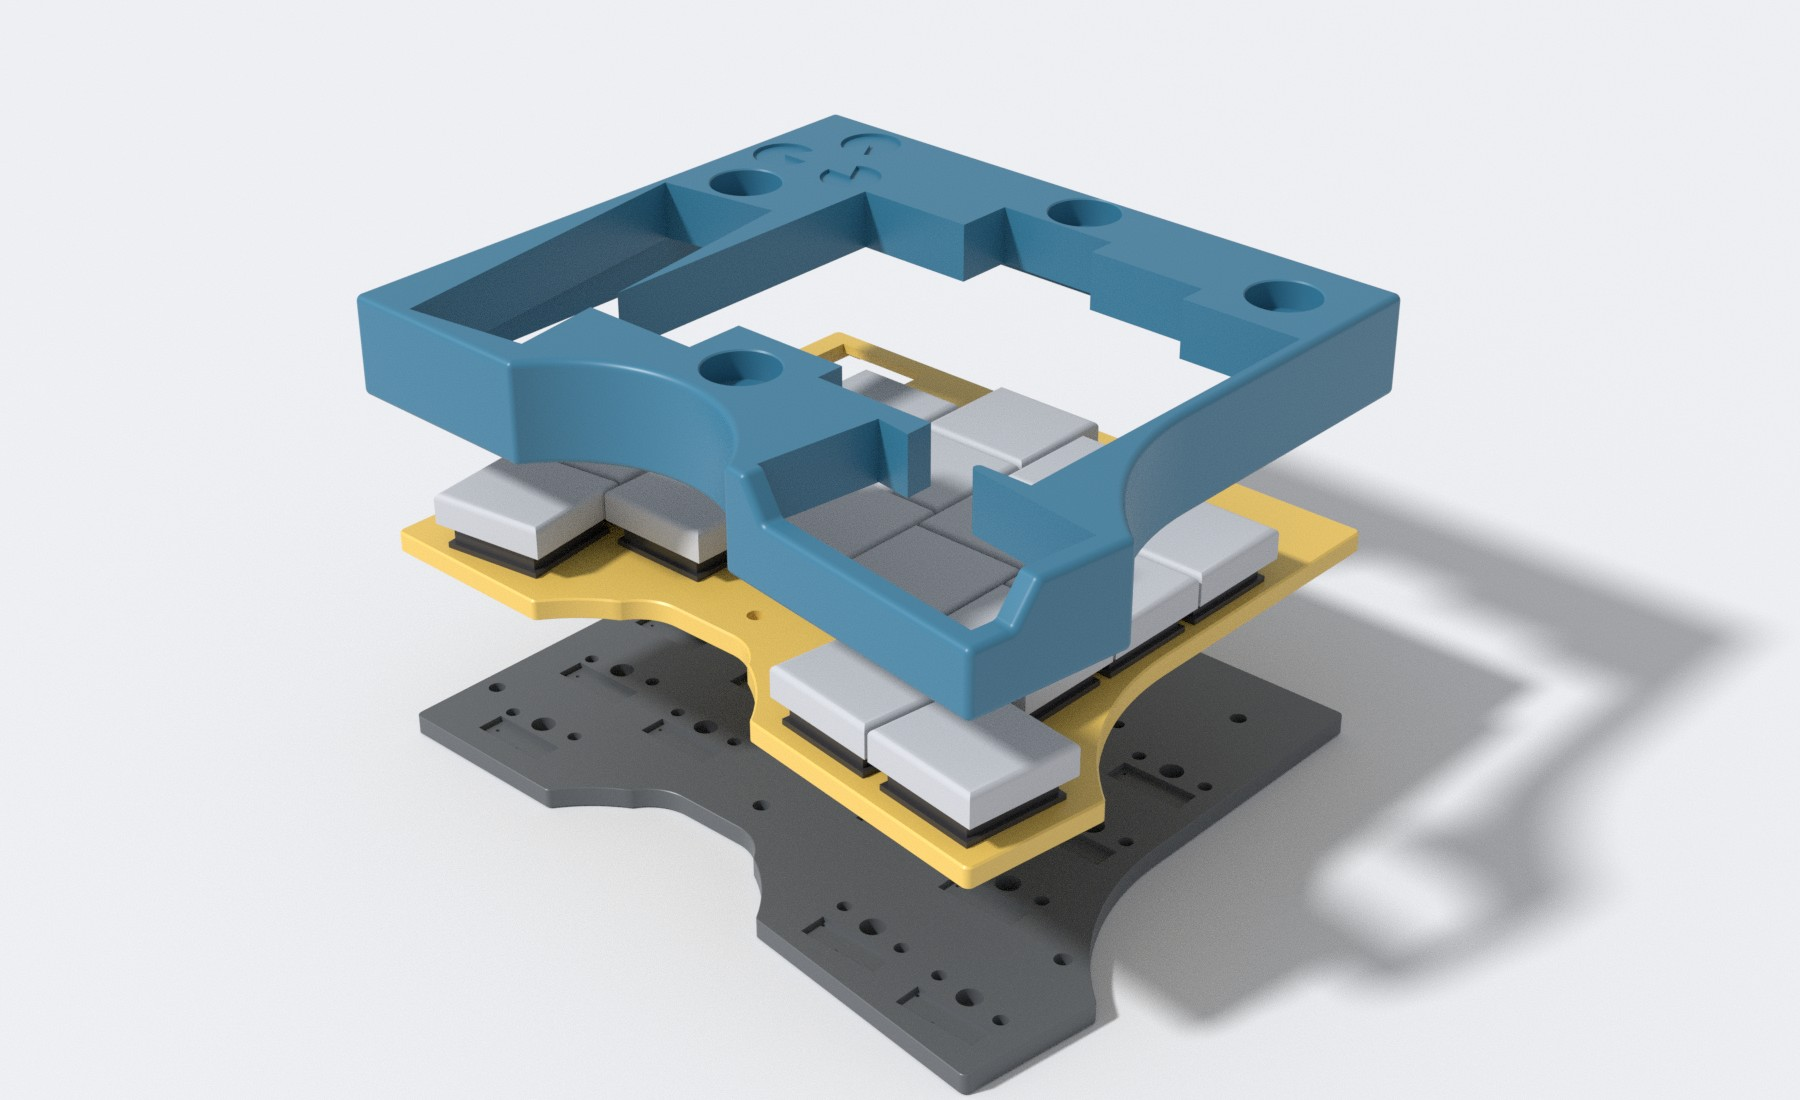
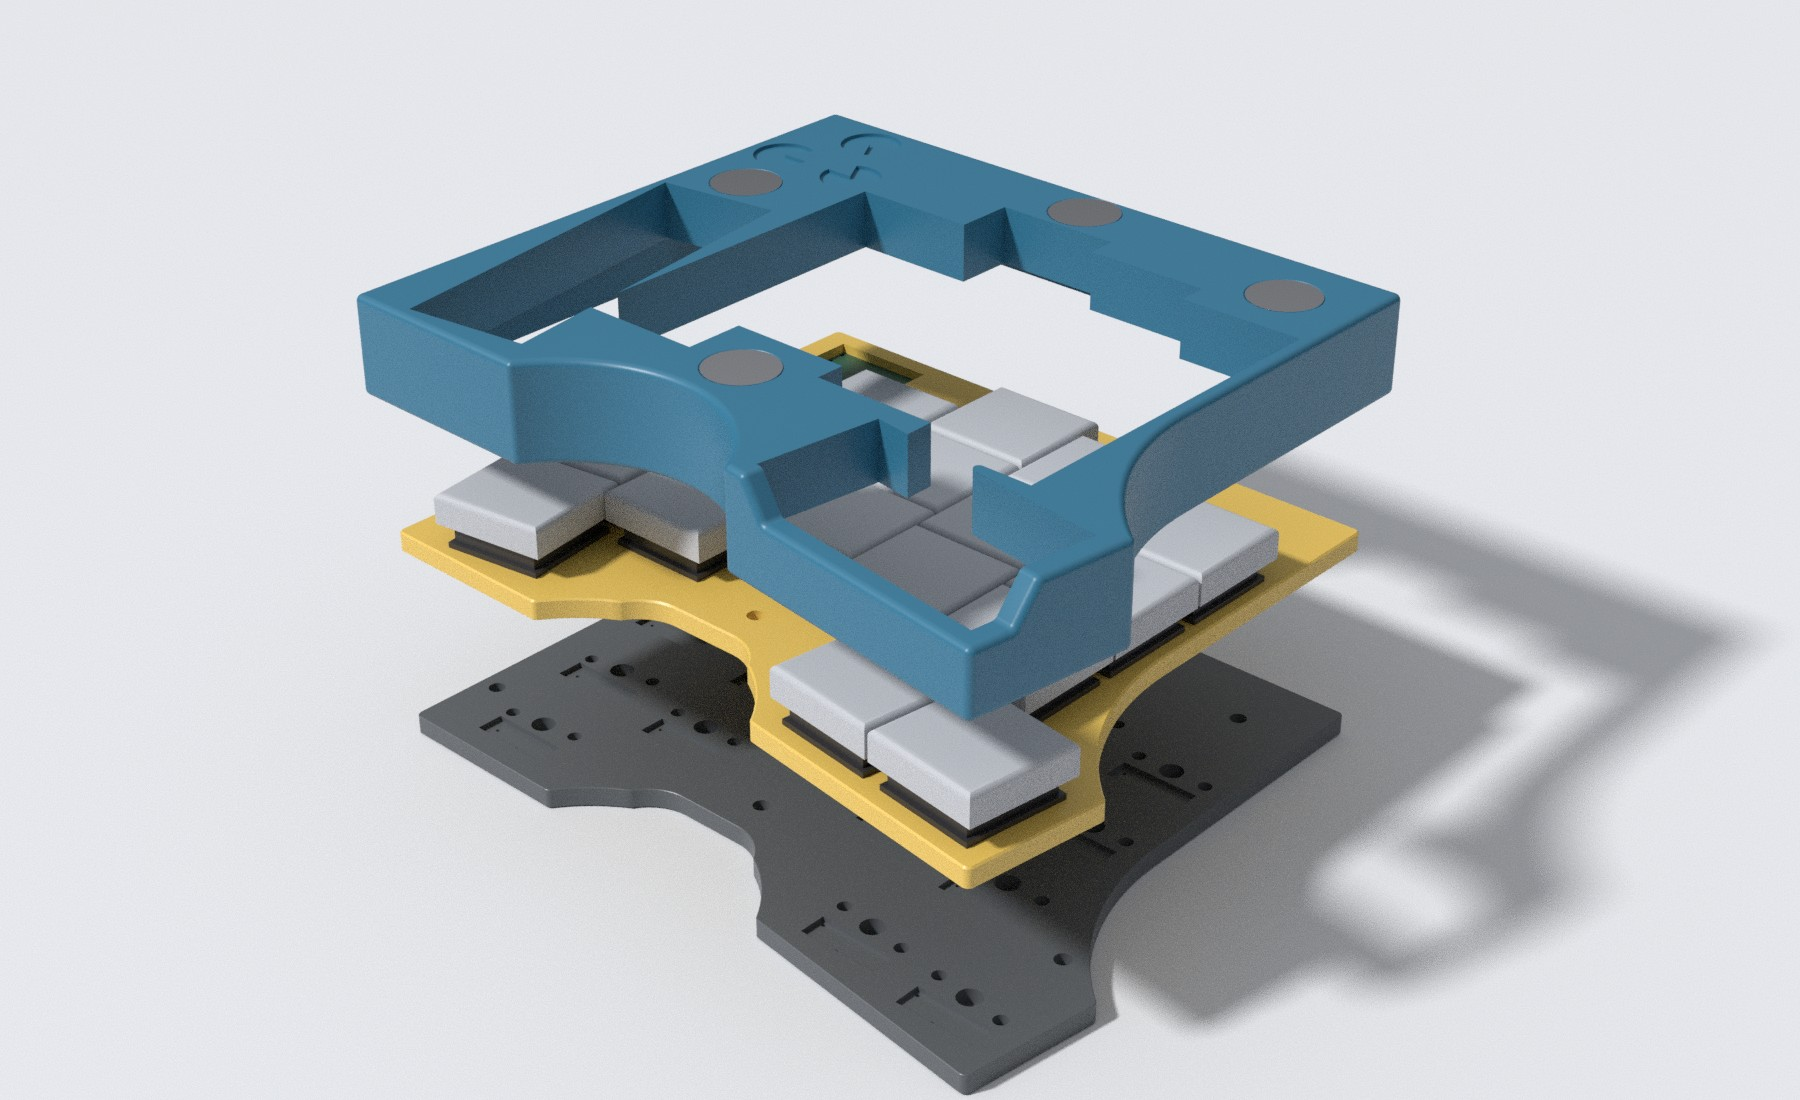
docs: show the XIAO, its silver USB connector and silver magnets in the renders
Xiao keeps its USB connector as a separate solid and WaveCase keeps the right
XIAO, so render.py can export the board, the connector and the stacked magnets.
The Blender script gets a metal material and a gradient environment for
reflections; the images are re-rendered.

diff --git a/render_blender.py b/render_blender.py
@@ -18,7 +18,11 @@ COLORS = {
     "bottom": (0.1, 0.11, 0.12, 1),
     "switches": (0.03, 0.03, 0.035, 1),
     "caps": (0.5, 0.51, 0.54, 1),
+    "xiao": (0.02, 0.1, 0.06, 1),
+    "usb": (0.85, 0.85, 0.88, 1),
+    "magnets": (0.85, 0.85, 0.88, 1),
 }
+METALS = ("usb", "magnets")
 SIZE = (1800, 1100)
 SAMPLES = 64
 
@@ -35,19 +39,42 @@ def reset_scene():
     scene.view_settings.view_transform = "Standard"
     world = bpy.data.worlds.new("world")
     world.use_nodes = True
-    background = world.node_tree.nodes["Background"]
-    background.inputs["Color"].default_value = (0.93, 0.94, 0.96, 1)
-    background.inputs["Strength"].default_value = 0.55
+    nodes, links = world.node_tree.nodes, world.node_tree.links
+    nodes.clear()
+    # camera rays see a plain backdrop, reflections see a gradient so metal does not look flat
+    plain = nodes.new("ShaderNodeBackground")
+    plain.inputs["Color"].default_value = (0.93, 0.94, 0.96, 1)
+    plain.inputs["Strength"].default_value = 0.55
+    coords = nodes.new("ShaderNodeTexCoord")
+    split = nodes.new("ShaderNodeSeparateXYZ")
+    ramp = nodes.new("ShaderNodeValToRGB")
+    ramp.color_ramp.elements[0].position = 0.3
+    ramp.color_ramp.elements[0].color = (0.03, 0.03, 0.035, 1)
+    ramp.color_ramp.elements[1].position = 0.7
+    ramp.color_ramp.elements[1].color = (0.8, 0.82, 0.85, 1)
+    gradient = nodes.new("ShaderNodeBackground")
+    gradient.inputs["Strength"].default_value = 0.7
+    camera_ray = nodes.new("ShaderNodeLightPath")
+    mix = nodes.new("ShaderNodeMixShader")
+    output = nodes.new("ShaderNodeOutputWorld")
+    links.new(coords.outputs["Generated"], split.inputs["Vector"])
+    links.new(split.outputs["Z"], ramp.inputs["Fac"])
+    links.new(ramp.outputs["Color"], gradient.inputs["Color"])
+    links.new(camera_ray.outputs["Is Camera Ray"], mix.inputs["Fac"])
+    links.new(gradient.outputs["Background"], mix.inputs[1])
+    links.new(plain.outputs["Background"], mix.inputs[2])
+    links.new(mix.outputs["Shader"], output.inputs["Surface"])
     scene.world = world
     return scene
 
 
-def material(name, color, roughness=0.45):
+def material(name, color, roughness=0.45, metallic=0.0):
     mat = bpy.data.materials.new(name)
     mat.use_nodes = True
     bsdf = mat.node_tree.nodes["Principled BSDF"]
     bsdf.inputs["Base Color"].default_value = color
     bsdf.inputs["Roughness"].default_value = roughness
+    bsdf.inputs["Metallic"].default_value = metallic
     return mat
 
 
@@ -56,7 +83,10 @@ def load(kind, side, offset=(0, 0, 0)):
     bpy.ops.wm.stl_import(filepath=os.path.join(MESH_DIR, f"{kind}_{side}.stl"))
     obj = (set(bpy.data.objects) - before).pop()
     obj.location = Vector(offset)
-    obj.data.materials.append(material(f"{kind}_{side}", COLORS[kind], roughness=0.6 if kind == "caps" else 0.4))
+    if kind in METALS:
+        obj.data.materials.append(material(f"{kind}_{side}", COLORS[kind], roughness=0.25, metallic=1.0))
+    else:
+        obj.data.materials.append(material(f"{kind}_{side}", COLORS[kind], roughness=0.6 if kind == "caps" else 0.4))
     bpy.context.view_layer.objects.active = obj
     obj.select_set(True)
     bpy.ops.object.shade_smooth_by_angle(angle=math.radians(35))
@@ -139,7 +169,7 @@ def render(name, objects, direction, ortho=False, flip=False, zoom=1.0):
     print("rendered", path)
 
 
-def assembled(sides=("left", "right"), kinds=("keywell", "keyplate", "bottom", "switches", "caps")):
+def assembled(sides=("left", "right"), kinds=("keywell", "keyplate", "bottom", "switches", "caps", "xiao", "usb", "magnets")):
     return [load(kind, side) for side in sides for kind in kinds]
 
 
@@ -152,14 +182,17 @@ reset_scene()
 render("top", assembled(), direction=(0, 0, 1), ortho=True, zoom=1.2)
 
 reset_scene()
-render("bottom", assembled(kinds=("keywell", "bottom")), direction=(0.25, -1.0, 0.85), flip=True, zoom=1.3)
+render("bottom", assembled(kinds=("keywell", "bottom", "xiao", "usb")), direction=(0.25, -1.0, 0.85), flip=True, zoom=1.3)
 
 reset_scene()
 exploded = [
     load("keywell", "left", (0, 0, 0)),
+    load("magnets", "left", (0, 0, 0)),
     load("keyplate", "left", (0, 0, -26)),
     load("switches", "left", (0, 0, -26)),
     load("caps", "left", (0, 0, -26)),
+    load("xiao", "left", (0, 0, -26)),
+    load("usb", "left", (0, 0, -26)),
     load("bottom", "left", (0, 0, -52)),
 ]
 render("exploded", exploded, direction=(0.9, -1.0, 0.75), zoom=0.95)

diff --git a/render.py b/render.py
@@ -39,10 +39,29 @@ def main():
         ],
     }
 
+    # two stacked magnets fill each recess, flush with the top of the keywell
+    def magnets(positions):
+        discs = [
+            Pos(position.X, position.Y, dims.above_z) * Cylinder(
+                dims.magnet_d.radius, 2 * dims.magnet_d.Z, align=(Align.CENTER, Align.CENTER, Align.MAX))
+            for position in positions
+        ]
+        return Compound(discs)
+
+    right_positions = [Vector(dims.right_side_offset - p.X, p.Y, p.Z) for p in dims.magnet_positions]
+    side_parts = {
+        "left": (case.xiao, magnets(dims.magnet_positions)),
+        "right": (case.xiao_right, magnets(right_positions)),
+    }
+
     os.makedirs(OUT_DIR, exist_ok=True)
     for side, locations in placements.items():
         for name in ("keywell", "keyplate", "bottom"):
             export_stl(getattr(case, f"{name}_{side}"), os.path.join(OUT_DIR, f"{name}_{side}.stl"))
+        xiao, side_magnets = side_parts[side]
+        export_stl(xiao.model - xiao.usb_connector, os.path.join(OUT_DIR, f"xiao_{side}.stl"))
+        export_stl(xiao.usb_connector, os.path.join(OUT_DIR, f"usb_{side}.stl"))
+        export_stl(side_magnets, os.path.join(OUT_DIR, f"magnets_{side}.stl"))
         export_stl(Compound([bodies.moved(loc) for loc in locations]), os.path.join(OUT_DIR, f"switches_{side}.stl"))
         export_stl(Compound([caps.moved(loc) for loc in locations]), os.path.join(OUT_DIR, f"caps_{side}.stl"))
     print(f"Exported meshes to {OUT_DIR}")

diff --git a/wave_generator.py b/wave_generator.py
@@ -92,7 +92,7 @@ class WaveCase:
                 z_dir=xiao_plane.z_dir,
             )
 
-            xiao_right = Xiao(xiao_right_plane, clearance=self.dims.clearance)
+            xiao_right = self.xiao_right = Xiao(xiao_right_plane, clearance=self.dims.clearance)
             right_switch_locations = [
                 Location((self.dims.right_side_offset - key.p.X, key.p.Y, key.p.Z), (0, 0, -key.r))
                 for key in self.keys.keys

diff --git a/models/xiao.py b/models/xiao.py
@@ -93,6 +93,7 @@ class Xiao:
 
                 with Locations(self.components.loading_light_d.p) as loading_light:
                     Box(self.components.loading_light_d.d.X, self.components.loading_light_d.d.Y, self.components.loading_light_d.d.Z)
+        self.usb_connector = self.plane * usb.part
         return self.plane * model.part
 
     def _create_reset_button_lever_sketch(self):
